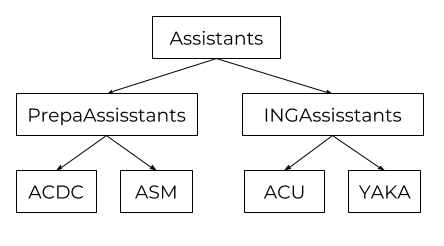
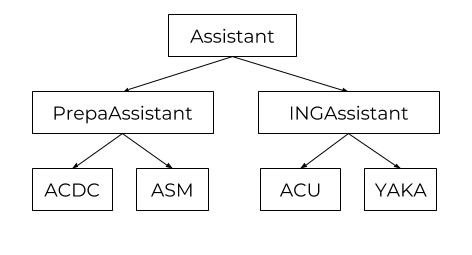
Added inheritance code example.
Corrected typos on inheritance.png

Changed region(s): [[0.0293, 0.0285, 0.9662, 0.8821], [0.7613, 0.5976, 0.9369, 0.8821], [0.1757, 0.5976, 0.205, 0.626]]

diff --git a/slides.md b/slides.md
@@ -231,11 +231,40 @@ public static void Main(string[] args)
 > - Classes can inherit properties of other classes
 > - The class that inherits is called "Child class"
 > - The class from which the "Child class" inherits is called "Parent class"
+> - Child classes can implement additionnal properties
 > - Allows us to create a tree with our classes
 
 ## Visual example
 
 ![Inheritance tree](img/inheritance.png)
+
+## In Code
+
+```cs
+class Assistant
+{
+  public string nickname;
+
+  public Assistant(string nickname)
+  {
+    this.nickname = nickname;
+  }
+}
+
+class ACDC : Assistant
+{
+  public ACDC(string nickname): base(nickname)
+  {
+    /* No need to initialize this.nickname */
+  }
+
+  public void TeachCAML()
+  {
+    /* CAML magic */
+  }
+}
+
+```
 
 # Advanced C#
 
